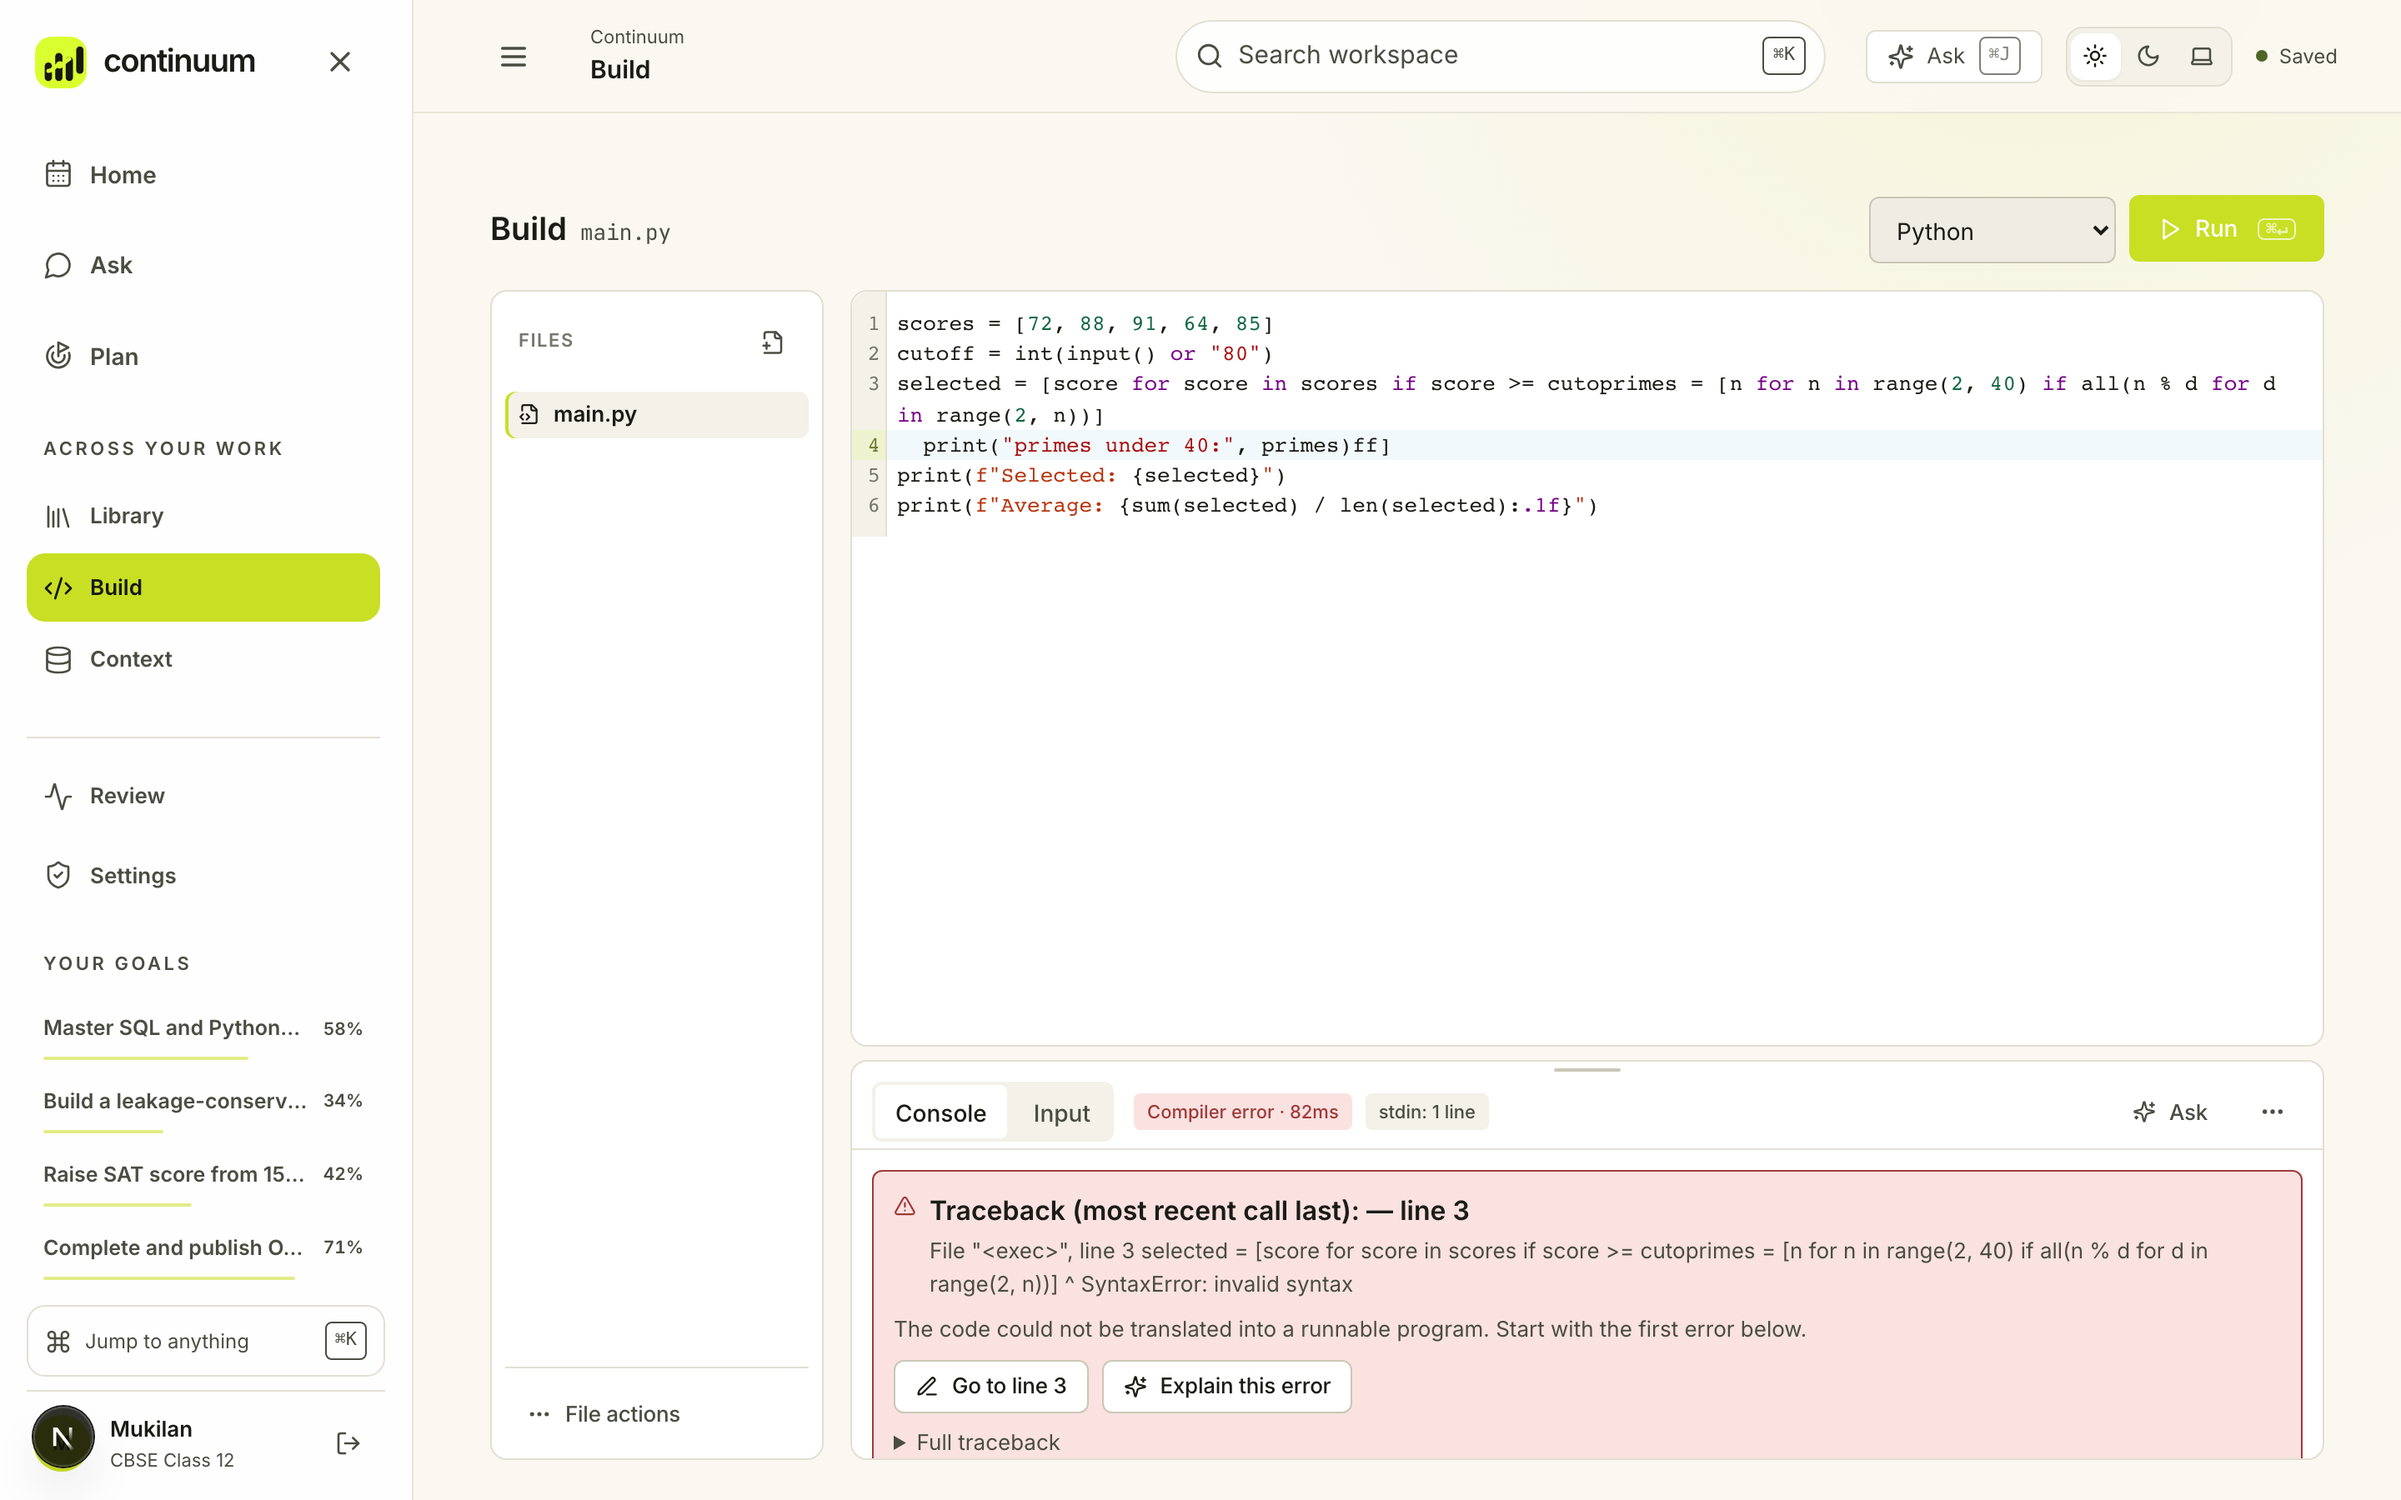
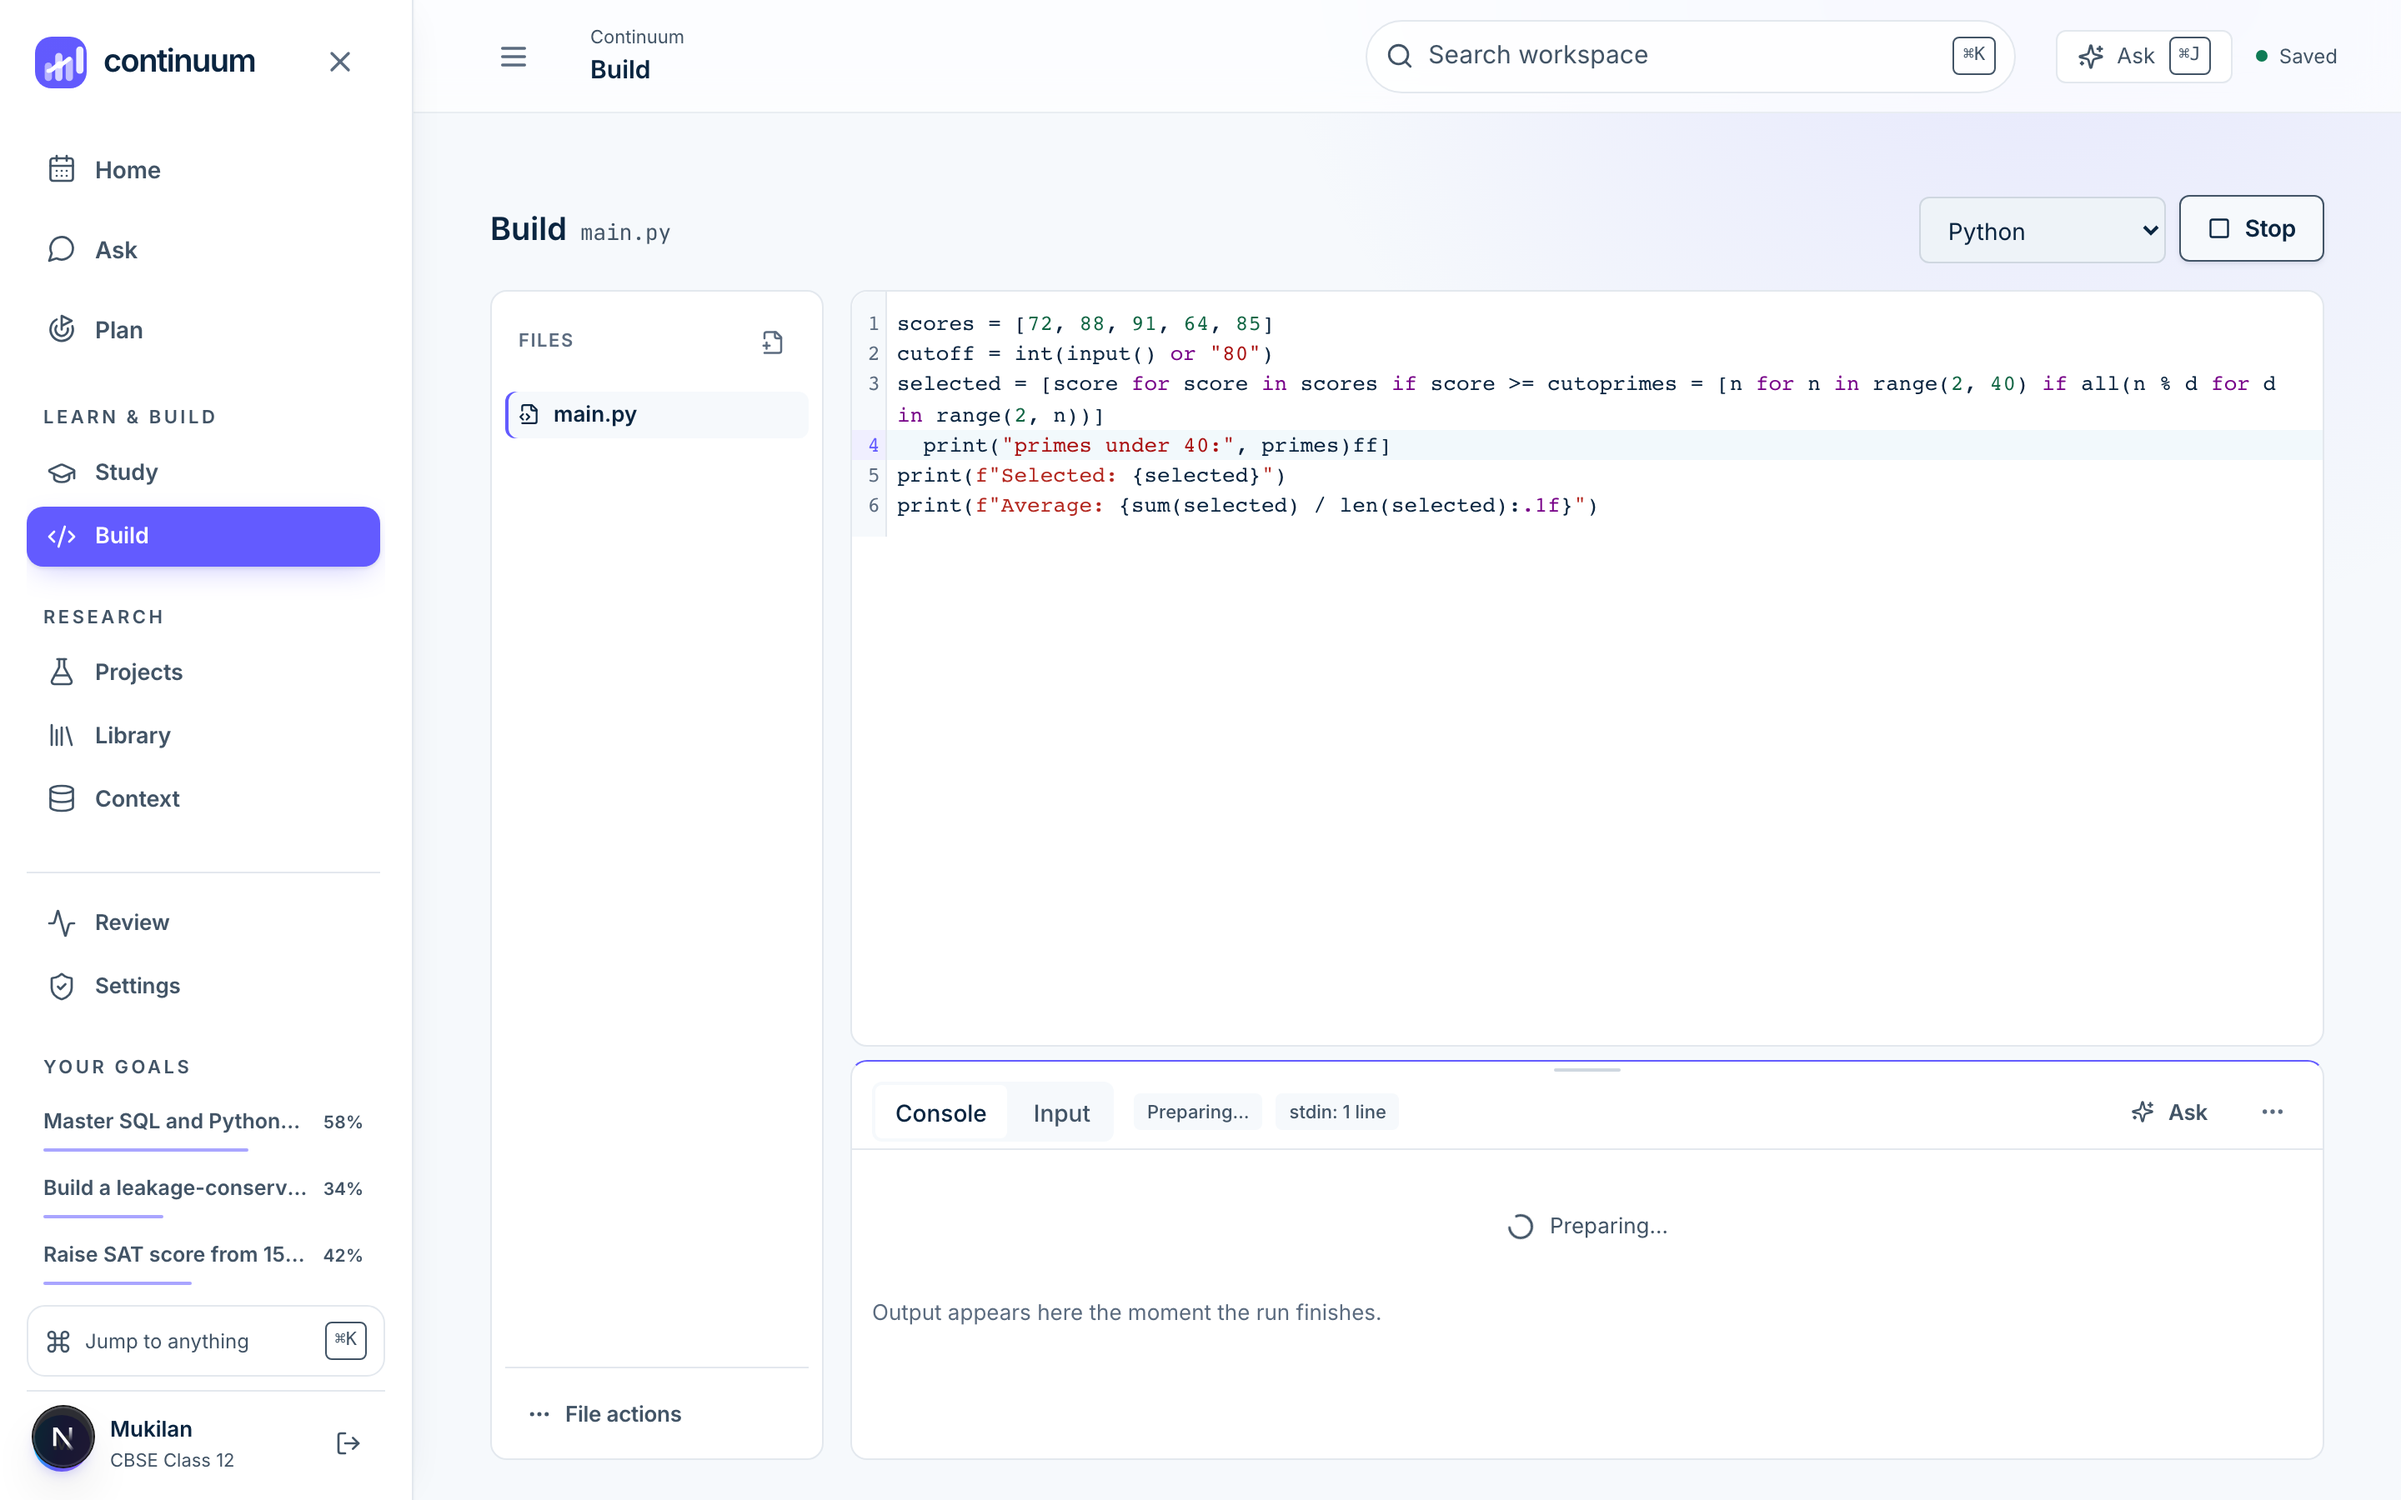
Give the landing page a horizon, and recapture the shots
The hero screenshots still advertised the lime UI, so the page was selling a
product that no longer exists. Recaptured, one theme, and the capture script no
longer loops over a theme that is gone.

The hero sits on an angled brand wash — Stripe's one borrowable idea, because
it gives an otherwise white page a horizon — and the shot is framed like a
window rather than floating unbounded. The dead band under the fold is gone.

The wash is a real element, not a `z-index: -1` pseudo: inside an isolated
stacking context a negative-index pseudo paints behind its own ancestor's
background, which is exactly how the hero screenshot rendered as a white
rectangle. Marketing buttons pick up the same lift and glow as the app's.

diff --git a/apps/web/components/landing/landing.css b/apps/web/components/landing/landing.css
@@ -54,13 +54,14 @@
   display: inline-flex; align-items: center; justify-content: center; gap: var(--s-2);
   font-size: var(--t-body); font-weight: 600; white-space: nowrap;
   border: 1px solid transparent; border-radius: var(--r-lg); cursor: pointer;
-  transition: background var(--d-fast) var(--e-out), border-color var(--d-fast) var(--e-out), color var(--d-fast) var(--e-out);
+  transition: background var(--d-fast) var(--e-out), border-color var(--d-fast) var(--e-out), color var(--d-fast) var(--e-out), box-shadow var(--d-base) var(--e-out), transform var(--d-fast) var(--e-out);
 }
 .mk-btn-sm { min-height: 38px; padding: 0 var(--s-4); font-size: var(--t-small); }
-.mk-btn-primary { color: var(--on-accent); background: var(--accent); border-color: var(--accent); }
-.mk-btn-primary:hover:not(:disabled) { background: var(--accent-hover); border-color: var(--accent-hover); }
-.mk-btn-secondary { color: var(--ink); background: var(--surface); border-color: var(--line-strong); }
-.mk-btn-secondary:hover:not(:disabled) { background: var(--surface-raised); }
+.mk-btn-primary { color: var(--on-brand); background: var(--brand); border-color: transparent; box-shadow: var(--glow); }
+.mk-btn-primary:hover:not(:disabled) { background: var(--brand-hover); box-shadow: var(--glow-lg); transform: translateY(-1px); }
+.mk-btn-primary:active:not(:disabled) { background: var(--brand-strong); transform: translateY(0); }
+.mk-btn-secondary { color: var(--ink); background: var(--surface); border-color: var(--line-strong); box-shadow: var(--shadow-1); }
+.mk-btn-secondary:hover:not(:disabled) { border-color: var(--ink-3); box-shadow: var(--shadow-2); transform: translateY(-1px); }
 .mk-btn:disabled { cursor: progress; opacity: 0.7; }
 .mk-cta-row { display: flex; flex-wrap: wrap; gap: var(--s-3); }
 .mk-cta-center { justify-content: center; }
@@ -70,8 +71,8 @@
 /* ── Header ─────────────────────────────────────────────────────────────── */
 .mk-header {
   position: sticky; top: 0; z-index: 10;
-  background: color-mix(in srgb, var(--canvas) 88%, transparent);
-  backdrop-filter: blur(12px);
+  background: rgba(255, 255, 255, .78);
+  backdrop-filter: blur(14px) saturate(1.6);
   border-bottom: 1px solid var(--line);
 }
 .mk-header-inner {
@@ -122,22 +123,54 @@
 .mk-shot[data-crop="center"] .mk-shot-img { object-position: center; }
 .mk-shot[data-crop="bottom"] .mk-shot-img { object-position: bottom center; }
 .mk-shot[data-crop="right"] .mk-shot-img { object-position: top right; }
-/* Theme swap. The inactive variant keeps `loading="lazy"`, so `display: none`
-   also means it is never fetched — see product-shot.tsx. */
-.mk-shot-dark { display: none; }
+
 
 
 
 /* ── 1 · Hero ───────────────────────────────────────────────────────────── */
+/* The hero sits on an angled brand wash that bleeds off the right edge — the
+   one piece of Stripe's language worth borrowing wholesale, because it gives an
+   otherwise white page a horizon. The wash is behind everything and never
+   intercepts a pointer. */
+.mk-hero-band { position: relative; }
+/* A real layer rather than a `z-index: -1` pseudo. Inside an isolated stacking
+   context a negative-index pseudo paints behind its own ancestor's background,
+   which is how the hero screenshot ended up invisible. */
+.mk-hero-wash {
+  position: absolute;
+  inset: -20% -30% auto -10%;
+  height: 150%;
+  background:
+    radial-gradient(60% 55% at 78% 18%, rgba(99, 91, 255, .16), transparent 68%),
+    radial-gradient(45% 45% at 96% 4%, rgba(0, 212, 255, .14), transparent 70%),
+    linear-gradient(168deg, #ffffff 0%, var(--canvas) 58%, #eef2fb 100%);
+  transform: skewY(-4deg);
+  transform-origin: top right;
+  pointer-events: none;
+}
+.mk-hero-band > .mk-hero { position: relative; }
+
 .mk-hero {
   max-width: var(--mk-max); margin: 0 auto;
-  padding: calc(var(--mk-section-y) * 0.7) var(--mk-gutter) var(--mk-section-y);
-  display: grid; grid-template-columns: minmax(0, 1fr) minmax(0, 1.32fr);
+  padding: calc(var(--mk-section-y) * 0.62) var(--mk-gutter) calc(var(--mk-section-y) * 0.72);
+  display: grid; grid-template-columns: minmax(0, 1fr) minmax(0, 1.28fr);
   gap: var(--s-12); align-items: center;
 }
 .mk-hero-copy { max-width: 560px; display: grid; gap: var(--s-5); align-content: start; }
 .mk-hero-copy .mk-lead { font-size: 19px; }
-.mk-hero-frame { min-width: 0; box-shadow: var(--shadow-3); border-radius: var(--r-xl); }
+/* The product shot is the proof, so it is framed like a window: a hairline,
+   a deep lift, and a slight rotation that settles to flat on hover. */
+.mk-hero-frame {
+  min-width: 0;
+  border: 1px solid var(--line);
+  border-radius: var(--r-xl);
+  box-shadow: var(--shadow-4);
+  background: var(--surface);
+  overflow: hidden;
+  transition: transform var(--d-slow) var(--e-out), box-shadow var(--d-slow) var(--e-out);
+}
+.mk-hero-frame:hover { transform: translateY(-4px); box-shadow: var(--shadow-4), 0 40px 80px -30px var(--brand-glow); }
+@media (prefers-reduced-motion: reduce) { .mk-hero-frame, .mk-hero-frame:hover { transform: none; } }
 .mk-proof { display: flex; flex-wrap: wrap; align-items: center; gap: var(--s-2); color: var(--ink-3); font-size: var(--t-small); }
 .mk-proof span { display: inline-flex; align-items: center; gap: var(--s-2); }
 .mk-proof i { color: var(--line-strong); font-style: normal; }

diff --git a/apps/web/components/landing/landing-page.tsx b/apps/web/components/landing/landing-page.tsx
@@ -161,6 +161,8 @@ export function LandingPage() {
             first thing the visitor sees and animates in content they are already
             looking at. Measured: it held largest-contentful-paint at 3.0s
             against §19.9's 2.0s, of which 2.4s was render delay alone. */}
+        <div className="mk-hero-band">
+          <div className="mk-hero-wash" aria-hidden="true" />
         <section className="mk-hero" aria-labelledby="hero-title">
           <div className="mk-hero-copy">
             <p className="mk-eyebrow">For students and researchers</p>
@@ -196,6 +198,7 @@ export function LandingPage() {
             />
           </figure>
         </section>
+        </div>
 
         {/* 2 — Problem */}
         <section className="mk-section mk-problem" aria-labelledby="problem-title">
